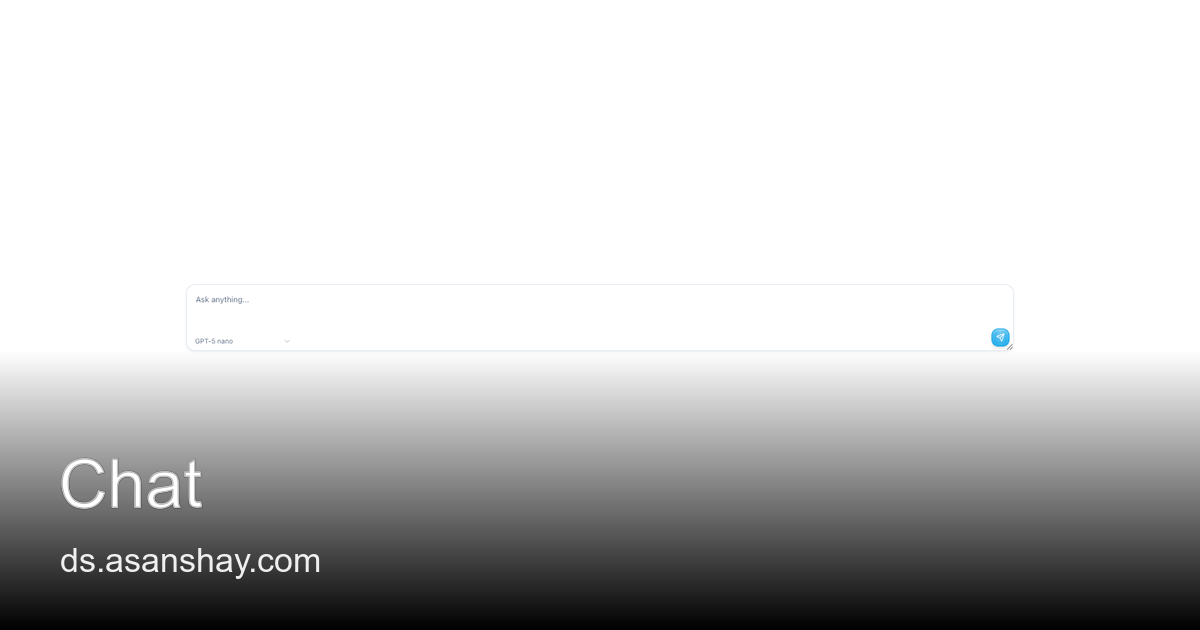
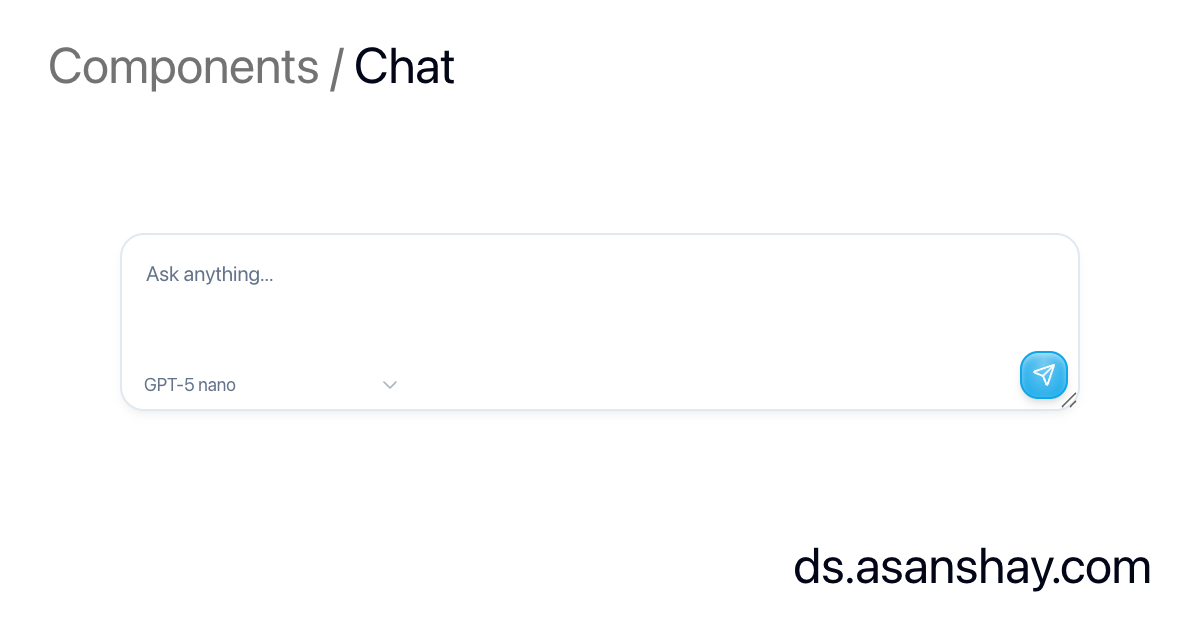
Refine OG demo layout and capture styling

diff --git a/app/demo/[component]/page.tsx b/app/demo/[component]/page.tsx
@@ -1,6 +1,6 @@
 import { notFound } from "next/navigation";
 
-import { getAllComponentIds, getDemoById } from "@/lib/component-registry";
+import { getAllComponentIds, getComponentMeta, getDemoById } from "@/lib/component-registry";
 
 export async function generateStaticParams() {
   return getAllComponentIds().map((id) => ({ component: id }));
@@ -12,9 +12,10 @@ export default async function DemoOnlyComponentPage({
   params: Promise<{ component: string }>;
 }) {
   const { component: id } = await params;
+  const meta = getComponentMeta(id);
   const demo = getDemoById(id);
 
-  if (!demo) {
+  if (!meta || !demo) {
     notFound();
   }
 
@@ -37,8 +38,25 @@ export default async function DemoOnlyComponentPage({
           }
         `}
       </style>
-      <main className="mx-auto flex min-h-screen w-full max-w-6xl items-center justify-center px-6 py-10">
-        {demo}
+      <main
+        className="relative h-screen w-screen overflow-hidden bg-background"
+        style={{
+          fontFamily:
+            '"SF Pro Display","SF Pro Text","SF Pro",-apple-system,BlinkMacSystemFont,"Segoe UI",sans-serif',
+        }}
+      >
+        <div className="absolute left-12 top-10 text-[50px] leading-none">
+          <span style={{ color: "#737373" }}>Components / </span>
+          <span className="text-foreground">{meta.name}</span>
+        </div>
+        <div className="absolute bottom-10 right-12 text-[50px] leading-none text-foreground">
+          ds.asanshay.com
+        </div>
+        <div className="absolute inset-0 flex items-center justify-center overflow-hidden">
+          <div className="flex min-h-[40vh] min-w-[40vw] origin-center scale-[2] items-center justify-center">
+            {demo}
+          </div>
+        </div>
       </main>
     </>
   );
